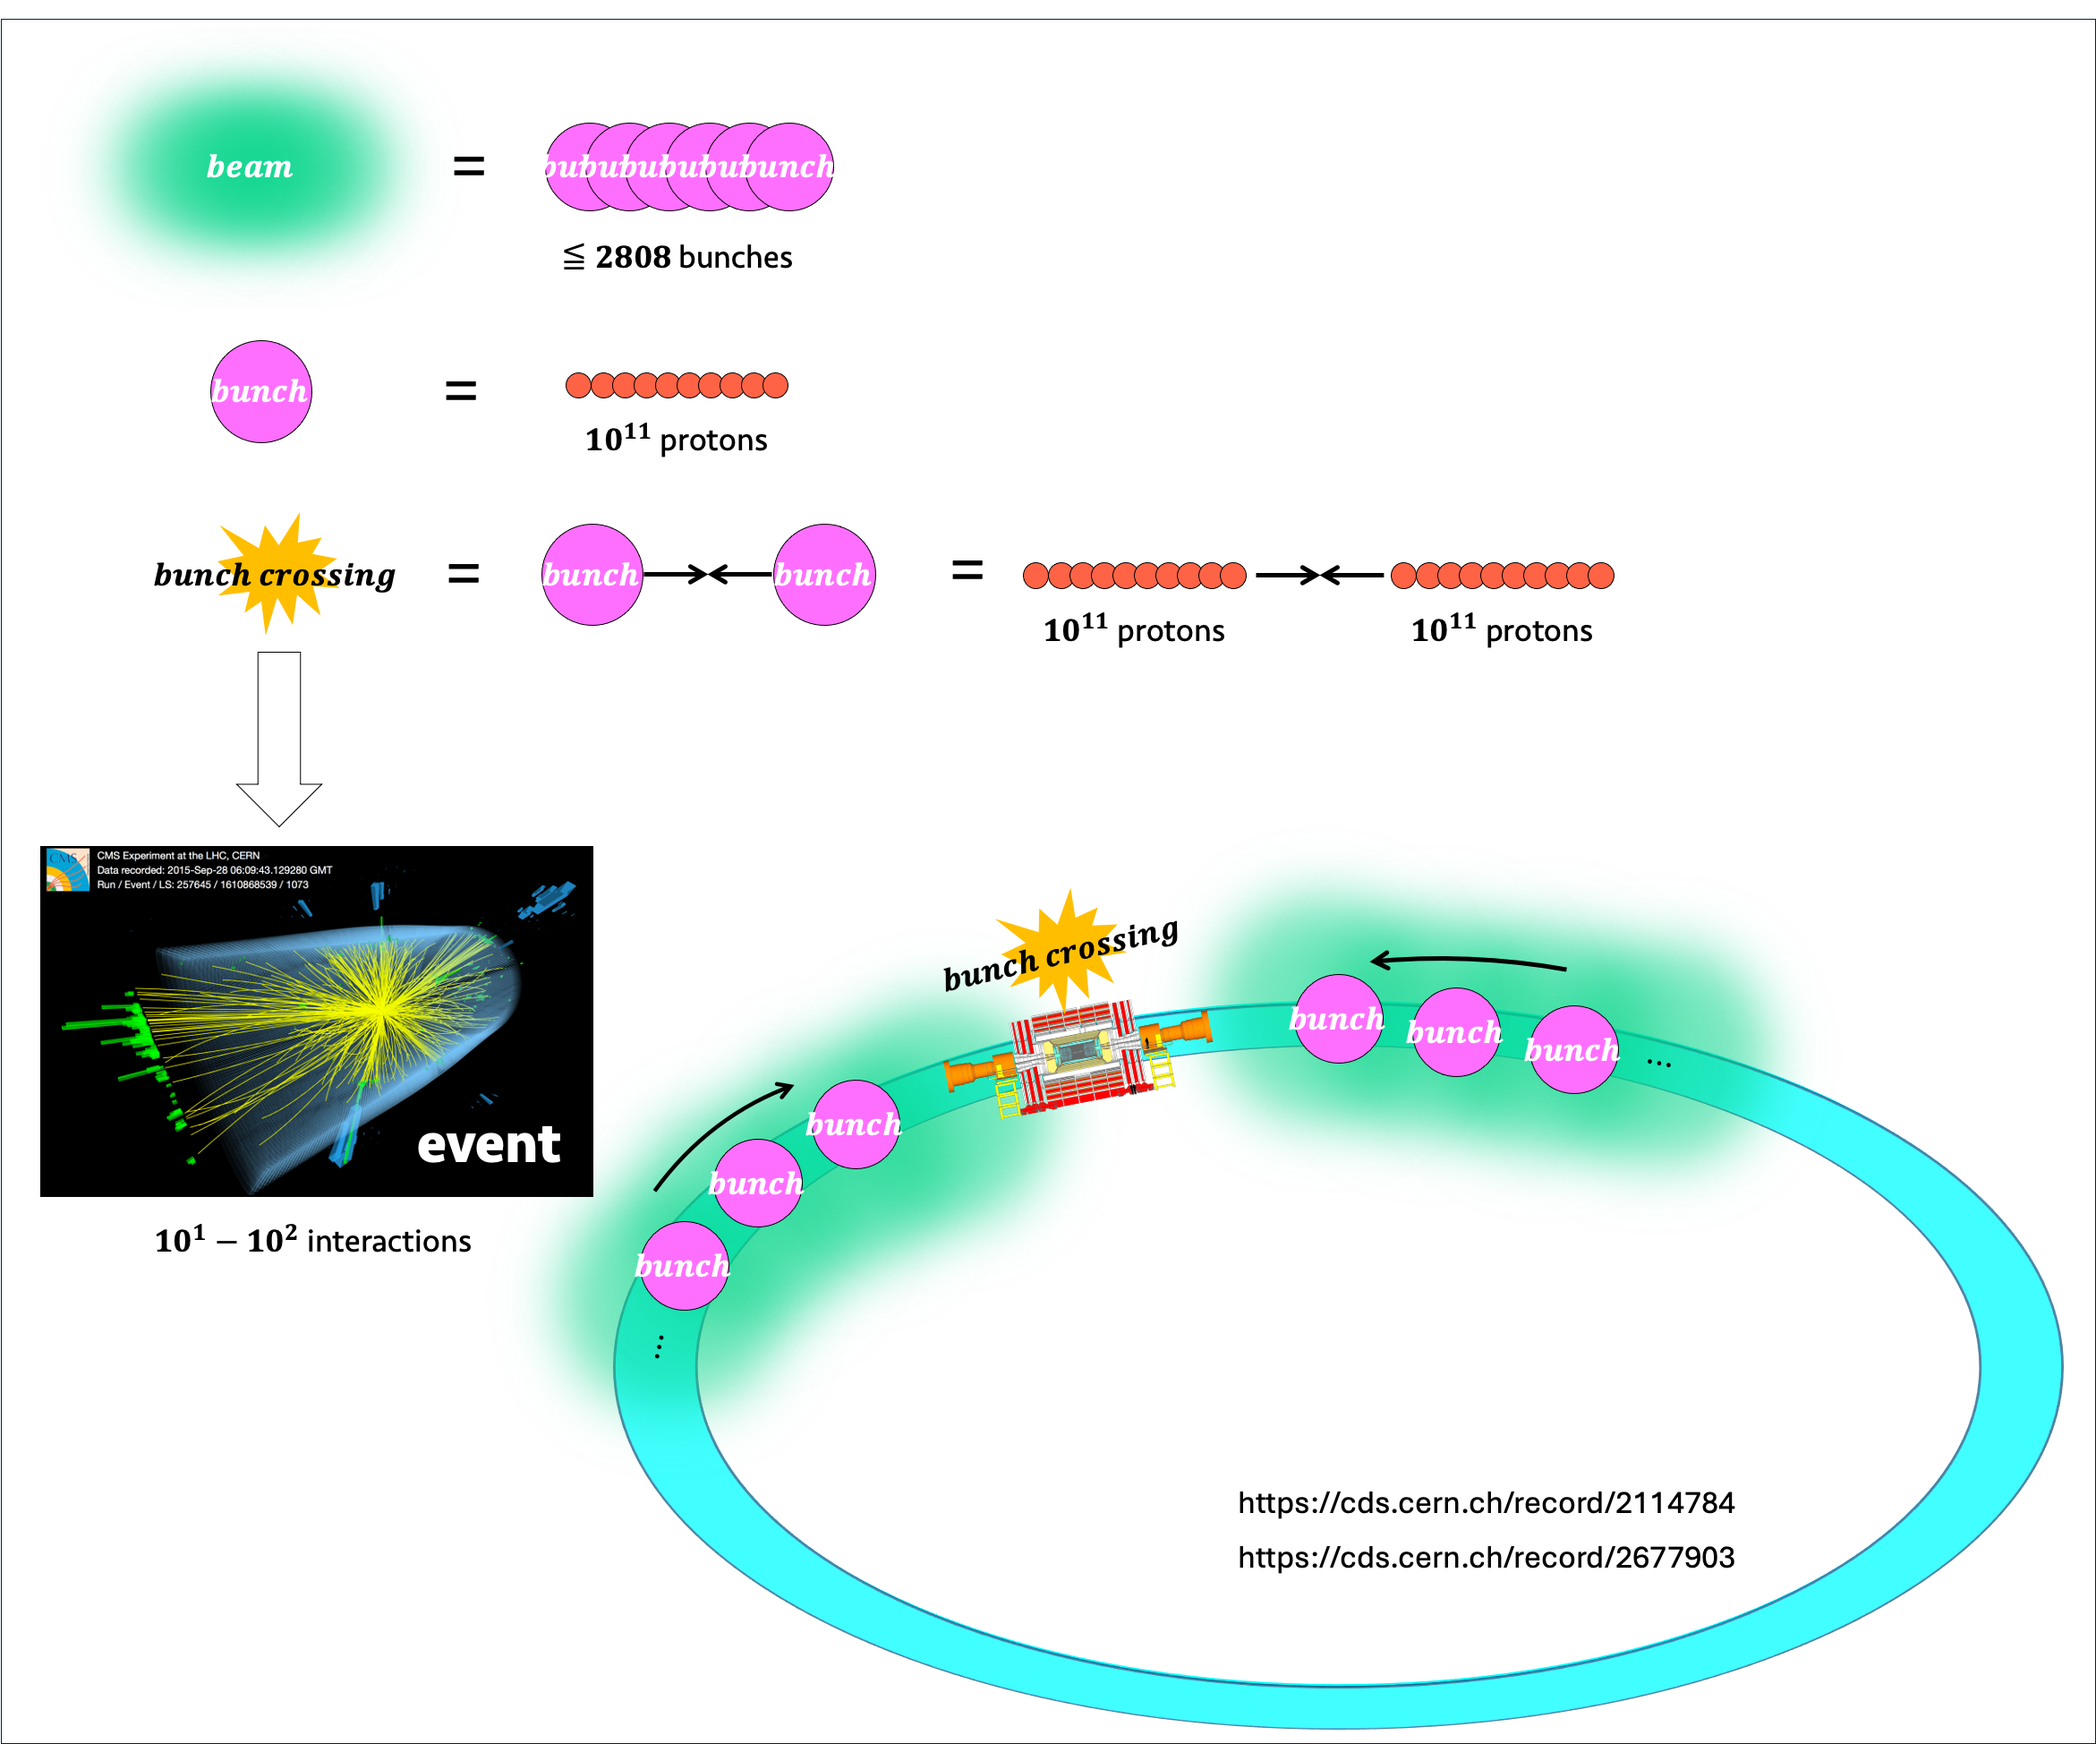
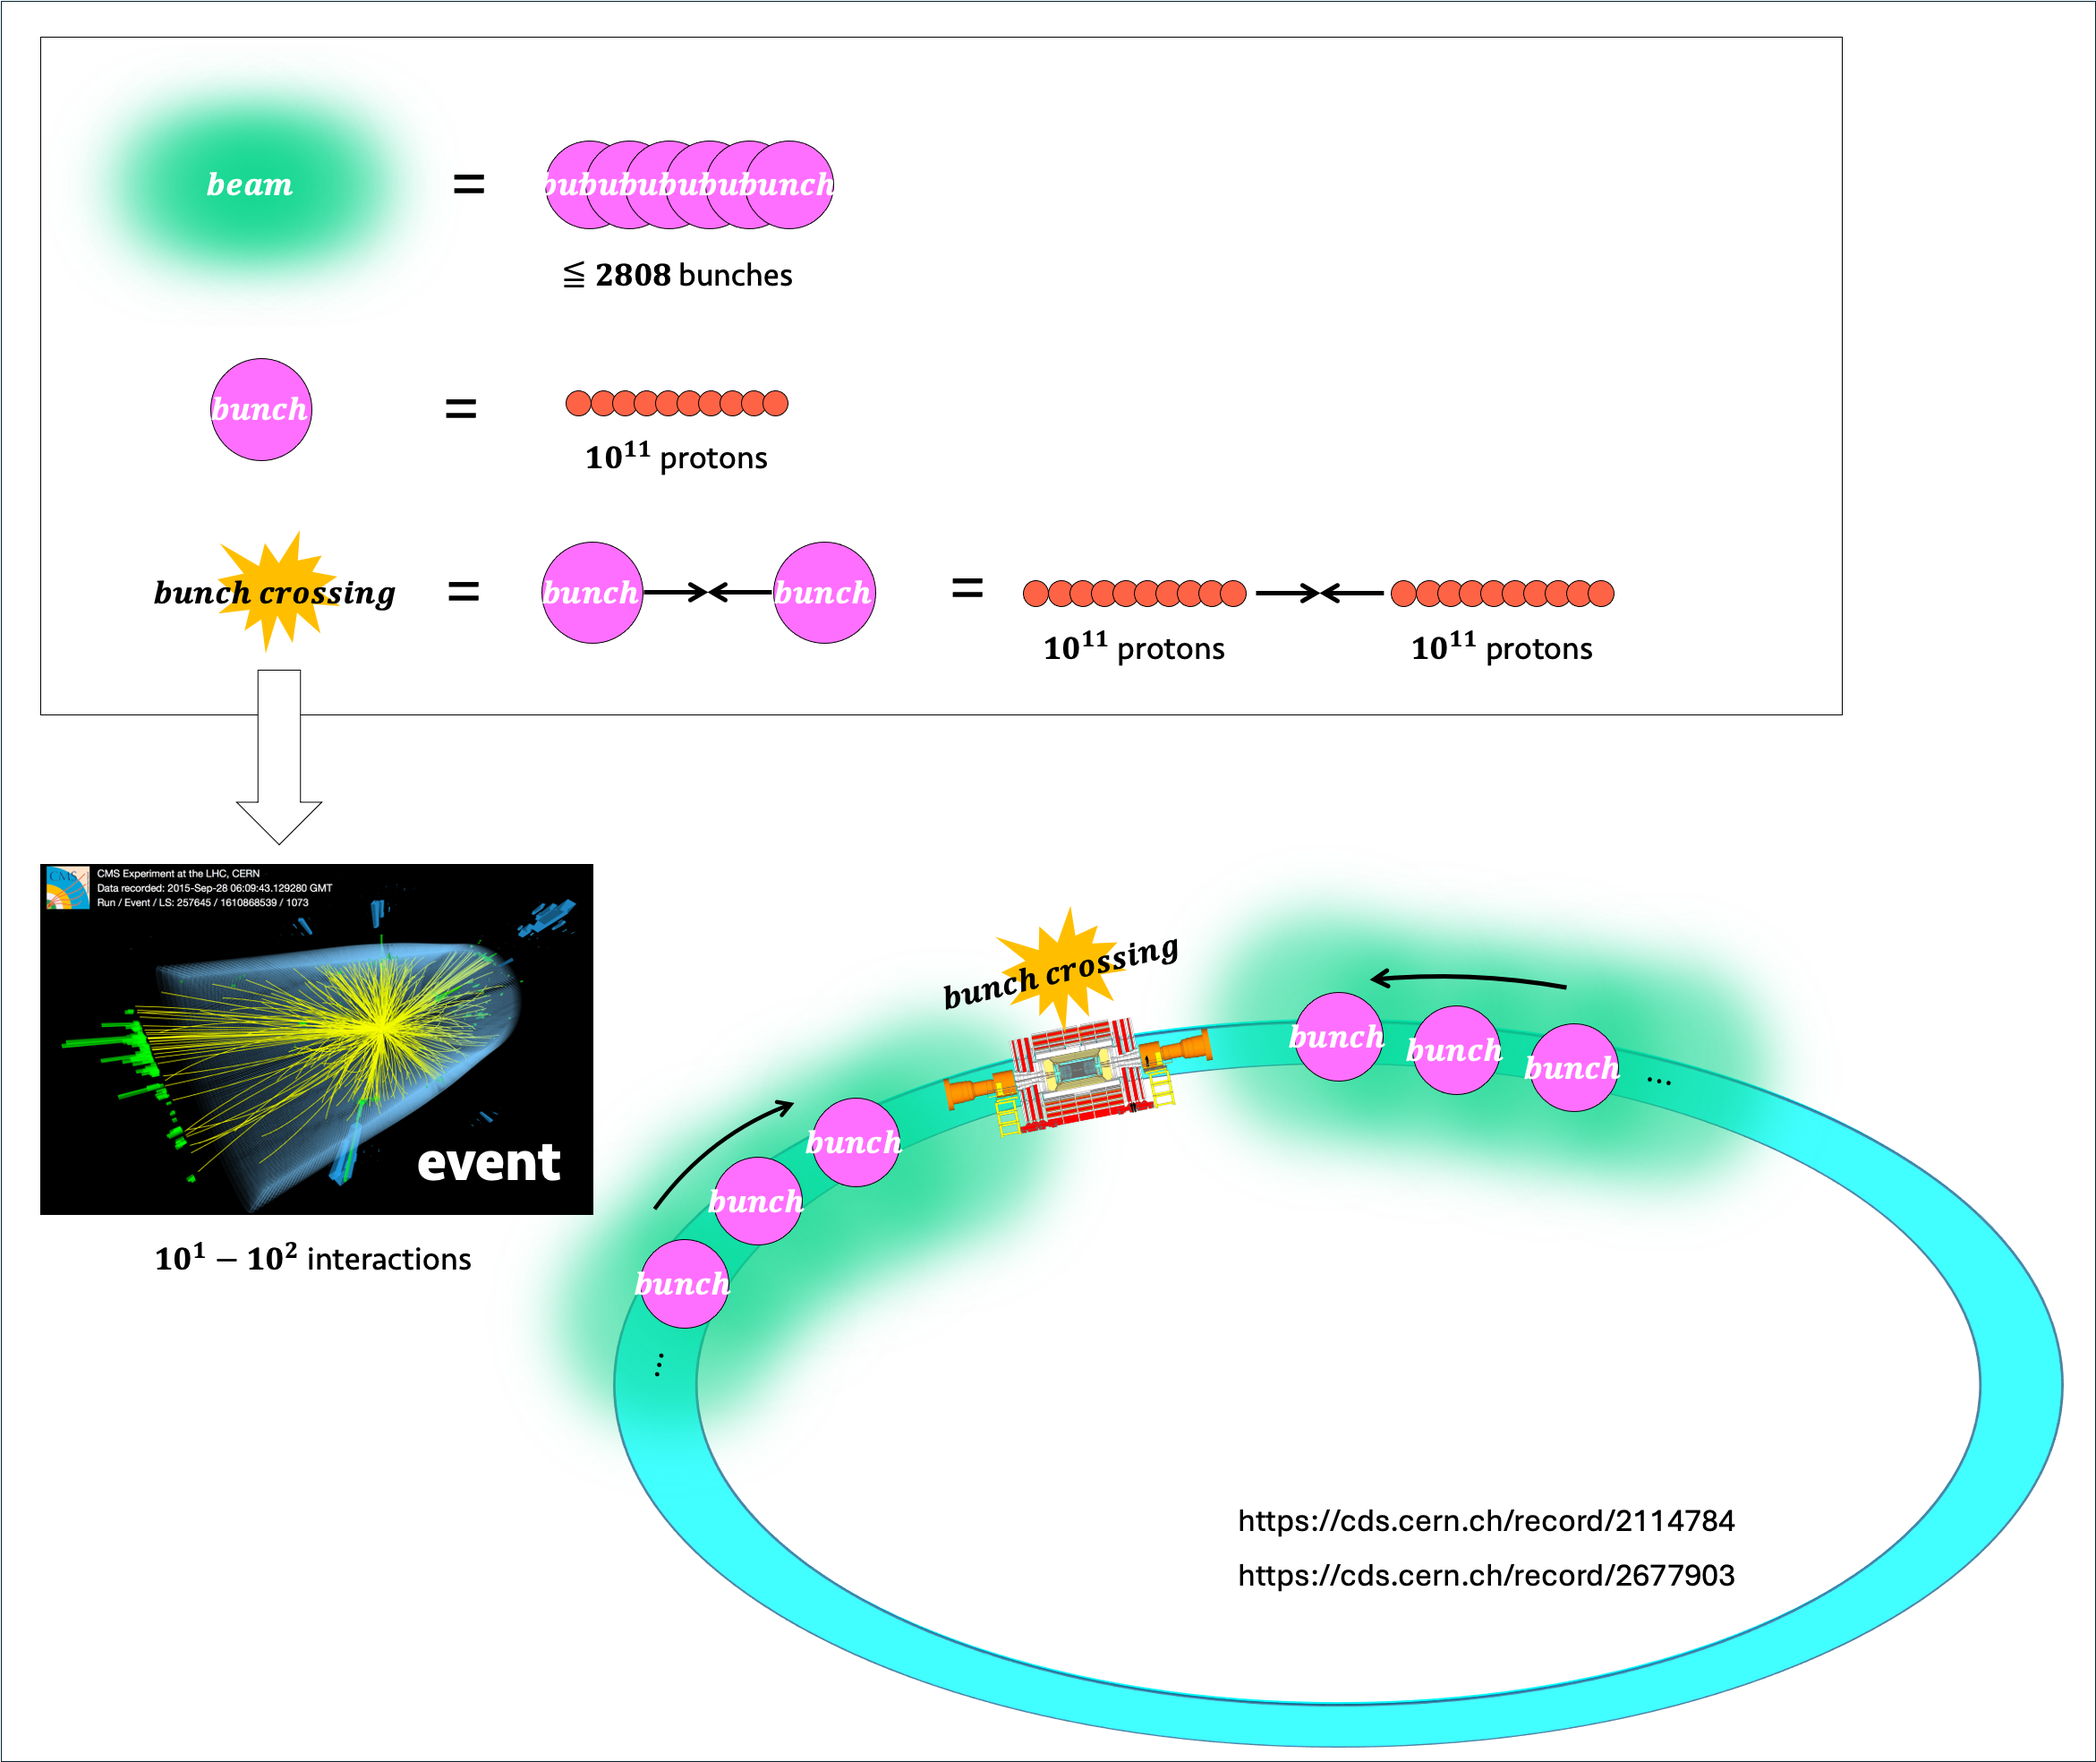
thumbnail added for accelerator-detector article, box added to one of the images

diff --git a/posts/Accelerator_and_Detector.md b/posts/Accelerator_and_Detector.md
@@ -3,7 +3,7 @@ layout: post
 title: Accelerator and Detector
 date: 2025-10-09
 permalink: /posts/accelerator_and_detector/
-cover: /assets/img/
+cover: /assets/img/accelerator_cover.png
 ---
 
 > The article is written based on [this post](https://cms.cern/detector/triggering-and-data-acquisition) about the CERN data aquisition system, mingled with my background knowledge
